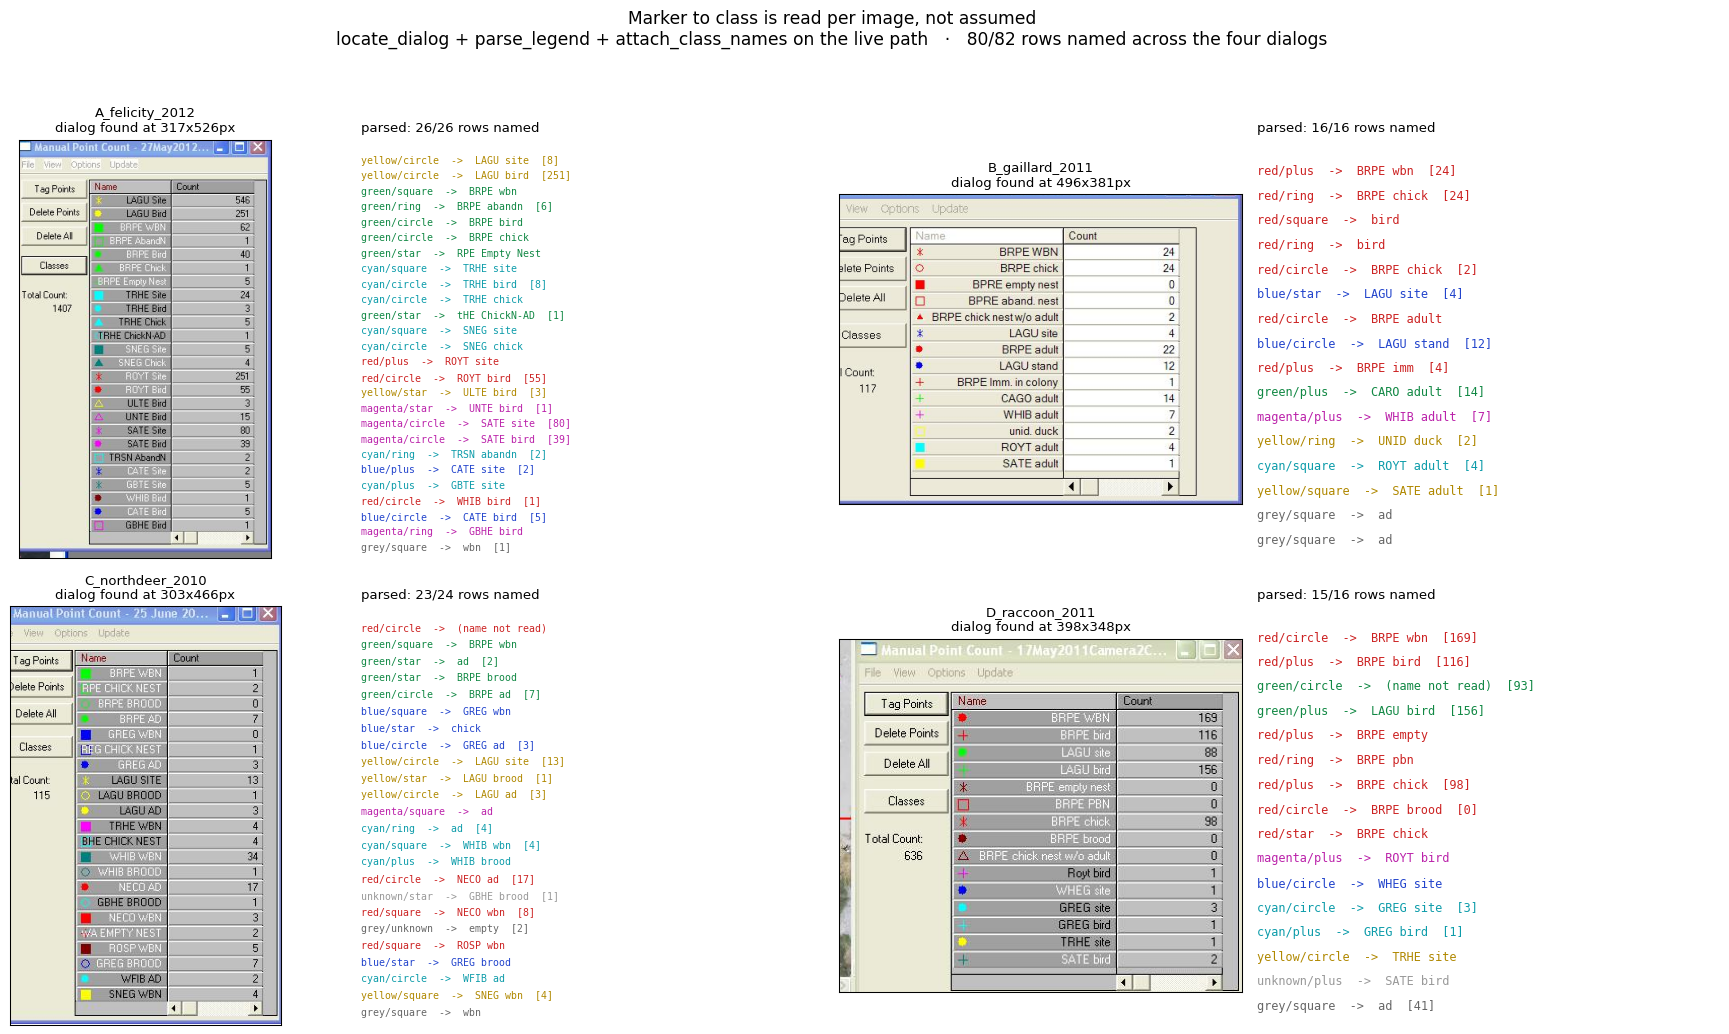
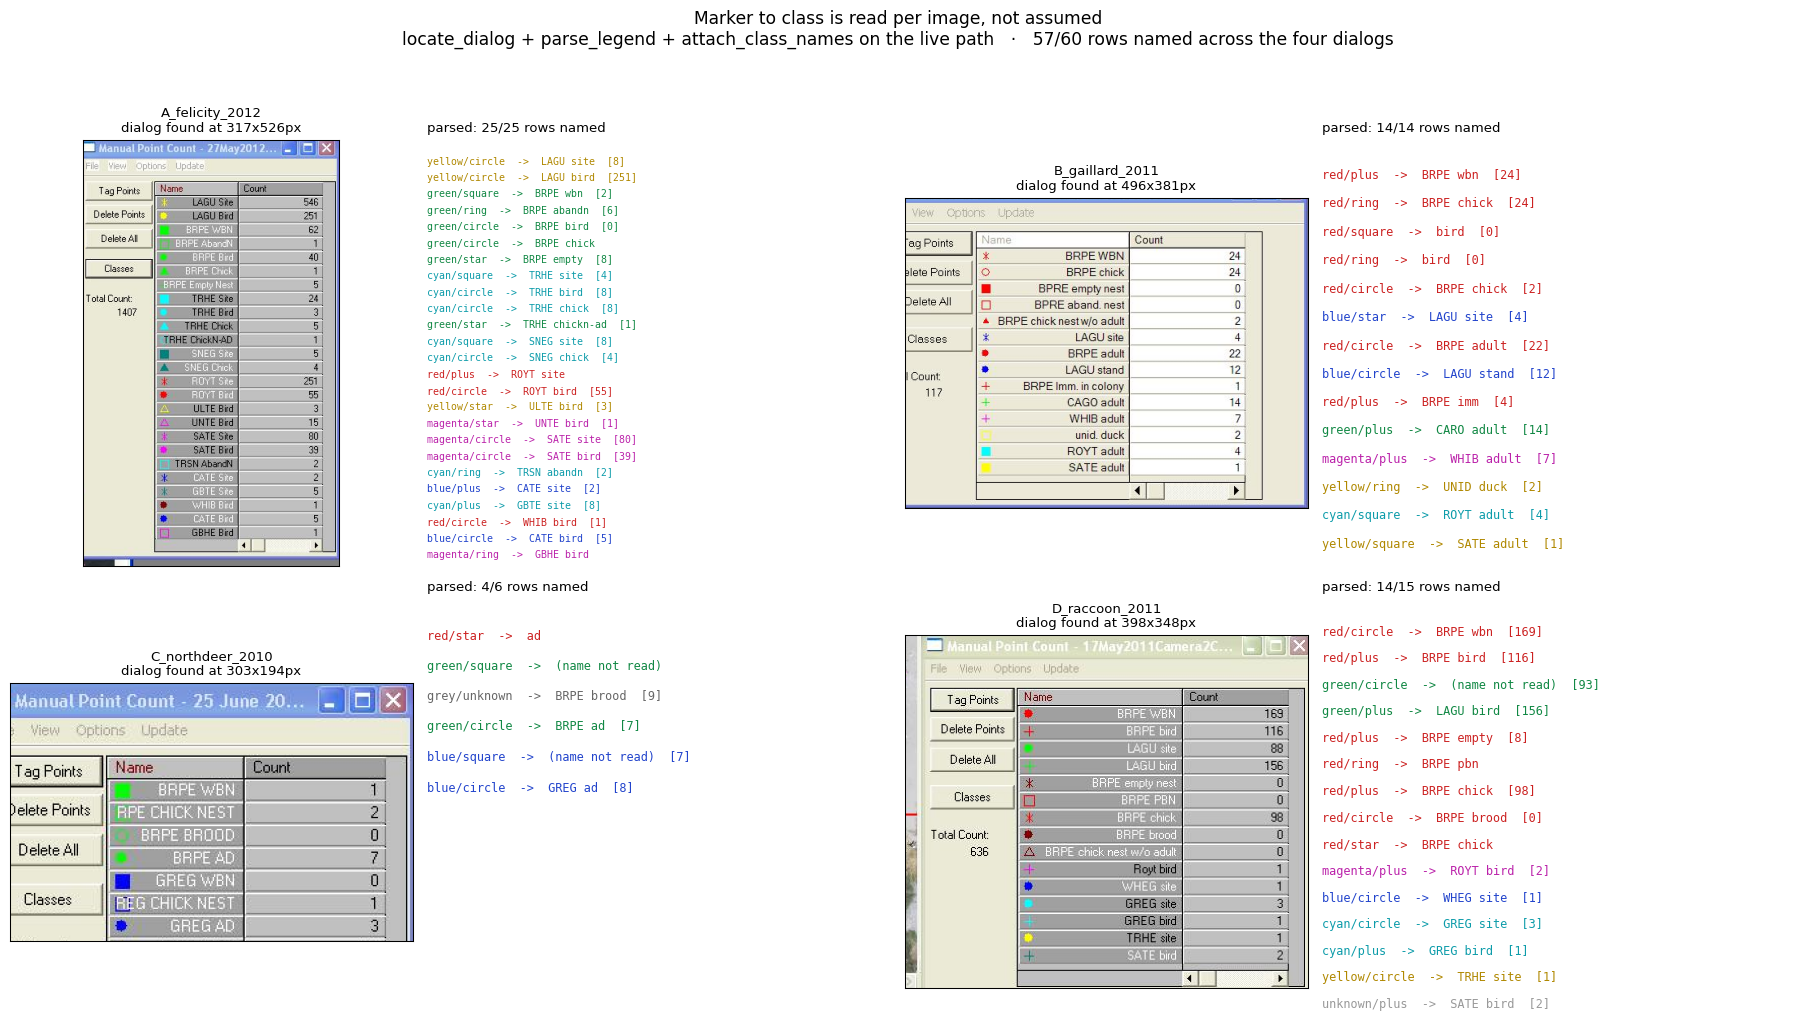
figures: recovery by step, where markers go, labelled accuracy, examples
fig19-fig23 are drawn by scripts/make_recovery_figures.py from the Kaggle runs,
and fig21 reruns eval_localisation.py with every change off and with the
defaults. fig2, the classification figure and the mapping figure are redrawn by
their own generators on the current pipeline.

diff --git a/scripts/make_recovery_figures.py b/scripts/make_recovery_figures.py
@@ -1,0 +1,286 @@
+"""
+Figures for the November 2026 recovery experiments (docs/recovery_experiments.md).
+
+Every number is read from, or recomputed by, the live pipeline:
+
+* fig19, fig20 read the Kaggle runs pulled by `scripts/kaggle_batch.py pull` into
+  results/kaggle/<tag>/<split>/frames.csv, through `scripts/recovery_report.py`.
+* fig21 runs `scripts/eval_localisation.py` twice on the hand-labelled frames, once
+  with every change switched off and once with the defaults.
+* fig22 runs detection, dialog location and legend reading on three frames with each
+  change switched off and on.
+
+Usage:
+    python scripts/make_recovery_figures.py              # all four
+    python scripts/make_recovery_figures.py --skip-eval  # fig21 from the last run's cache
+"""
+from __future__ import annotations
+
+import argparse
+import json
+import os
+import re
+import subprocess
+import sys
+
+import cv2
+import matplotlib
+matplotlib.use("Agg")
+import matplotlib.pyplot as plt
+import numpy as np
+
+ROOT = os.path.dirname(os.path.dirname(os.path.abspath(__file__)))
+sys.path.insert(0, ROOT)
+sys.path.insert(0, os.path.join(ROOT, "scripts"))
+OUT = os.path.join(ROOT, "results", "figures")
+CACHE = os.path.join(ROOT, "results", "kaggle", "fig21_eval.json")
+
+BEFORE, AFTER = "#eb6834", "#2a78d6"          # validated pair (light surface)
+SEG = ["#2a78d6", "#eb6834", "#1baf7a", "#eda100"]
+INK, MUTED, SURFACE = "#0b0b0b", "#52514e", "#fcfcfb"
+OLD_ENV = dict(TIERS="0", OVER_ASSIGN="0", WRONG_PAIR_GUARD="0", LINE_FILTER="0",
+               MODAL="dt", DIALOG_SHARE="0", COUNT_GEOM="0", COUNT_OCR="orig")
+
+plt.rcParams.update({"font.size": 10, "axes.edgecolor": MUTED, "axes.labelcolor": INK,
+                     "xtick.color": MUTED, "ytick.color": MUTED, "figure.facecolor": SURFACE,
+                     "axes.facecolor": SURFACE, "axes.spines.top": False,
+                     "axes.spines.right": False})
+
+
+def recovery(tag: str, split: str) -> float:
+    from recovery_report import headline, load
+    return headline(load(tag, split))["recovery"]
+
+
+def fig19() -> None:
+    steps = [("B0", "b0", "baseline"), ("E2", "e2", "tiers"), ("E3", "e3", "line filter"),
+             ("E4", "e4b", "dialog box"), ("E5", "e5b", "marker size"),
+             ("E6", "e6", "count column"), ("Final", "final", "+ tier D fix")]
+    vals = [recovery(t, "dev") for _, t, _ in steps]
+    test = [recovery("b0", "test"), recovery("final", "test")]
+
+    fig, (a, b) = plt.subplots(1, 2, figsize=(11, 3.8), gridspec_kw={"width_ratios": [3.2, 1]})
+    x = np.arange(len(steps))
+    a.bar(x, vals, width=0.62, color=AFTER)
+    for i, v in enumerate(vals):
+        a.text(i, v + 0.01, f"{v:.1%}", ha="center", va="bottom", color=INK, fontsize=9)
+    a.set_xticks(x, [f"{s}\n{d}" for s, _, d in steps], fontsize=8.5)
+    a.set_ylim(0, 0.7); a.set_ylabel("dots recovered / survey dots")
+    a.set_title("Dev set, one change at a time (3,705 frames)", loc="left", fontsize=10)
+    b.bar([0, 1], test, width=0.6, color=[BEFORE, AFTER])
+    for i, v in enumerate(test):
+        b.text(i, v + 0.01, f"{v:.1%}", ha="center", va="bottom", color=INK, fontsize=9)
+    b.set_xticks([0, 1], ["before", "after"]); b.set_ylim(0, 0.7)
+    b.set_title("Sealed test set (877 frames)", loc="left", fontsize=10)
+    for ax in (a, b):
+        ax.grid(axis="y", color="#e4e3df", linewidth=0.6); ax.set_axisbelow(True)
+    fig.tight_layout()
+    fig.savefig(os.path.join(OUT, "fig19_recovery_by_step.png"), dpi=150)
+    print("fig19", [f"{v:.3f}" for v in vals], "test", [f"{v:.3f}" for v in test])
+
+
+def fig20() -> None:
+    from recovery_report import load
+    groups = [("recovered", None),
+              ("lost inside exported frames", None),
+              ("frame rejected by count ratio", ("select:",)),
+              ("no dialog / legend, alignment, wrong pair",
+               ("no dialog", "legend did not parse", "alignment failed", "wrong pair",
+                "dialog wrong"))]
+    rows = {}
+    for label, tag in (("baseline", "b0"), ("final", "final")):
+        f = load(tag, "dev"); f = f[f.stage != "screenshot missing"]; tot = f.survey.sum()
+        e = f[f.stage == "exported"]
+        sel = f[f.stage.str.startswith("select:")].survey.sum()
+        other = f[~f.stage.isin(["exported"]) & ~f.stage.str.startswith("select:")].survey.sum()
+        rows[label] = [e.kept.sum() / tot, (e.survey.sum() - e.kept.sum()) / tot,
+                       sel / tot, other / tot]
+    fig, ax = plt.subplots(figsize=(10, 2.6))
+    for r, (label, parts) in enumerate(rows.items()):
+        left = 0.0
+        for k, p in enumerate(parts):
+            ax.barh(r, p - 0.004, left=left, height=0.55, color=SEG[k])
+            if p > 0.04:
+                ax.text(left + p / 2, r, f"{p:.0%}", ha="center", va="center",
+                        color="white" if k == 0 else INK, fontsize=9)
+            left += p
+    ax.set_yticks([0, 1], list(rows)); ax.invert_yaxis(); ax.set_xlim(0, 1)
+    ax.set_xlabel("share of survey dots (dev, 3,705 frames)")
+    ax.legend(handles=[plt.Rectangle((0, 0), 1, 1, color=c) for c in SEG],
+              labels=[g for g, _ in groups], ncol=4, loc="upper center",
+              bbox_to_anchor=(0.5, 1.32), frameon=False, fontsize=8.5)
+    fig.tight_layout()
+    fig.savefig(os.path.join(OUT, "fig20_where_dots_go.png"), dpi=150)
+    print("fig20", {k: [round(v, 3) for v in p] for k, p in rows.items()})
+
+
+def run_eval(env: dict) -> dict:
+    out = subprocess.run([sys.executable, "scripts/eval_localisation.py"], cwd=ROOT,
+                         env={**os.environ, **env}, capture_output=True, text=True).stdout
+    p, r, f1 = map(float, re.search(r"precision ([\d.]+)\s+recall ([\d.]+)\s+F1 ([\d.]+)",
+                                    out).groups())
+    acc = float(re.search(r"per-dot accuracy, legend ROW\s+([\d.]+)", out).group(1))
+    return dict(precision=p, recall=r, F1=f1, classification=acc)
+
+
+def fig21(skip_eval: bool) -> None:
+    if skip_eval and os.path.exists(CACHE):
+        res = json.load(open(CACHE))
+    else:
+        res = {"before": run_eval(OLD_ENV), "after": run_eval({})}
+        json.dump(res, open(CACHE, "w"), indent=1)
+    keys = ["precision", "recall", "F1", "classification"]
+    x = np.arange(len(keys)); w = 0.36
+    fig, ax = plt.subplots(figsize=(7.5, 3.4))
+    for off, (lab, col) in zip((-w / 2, w / 2), (("before", BEFORE), ("after", AFTER))):
+        vals = [res[lab][k] for k in keys]
+        ax.bar(x + off, vals, width=w - 0.02, color=col, label=lab)
+        for i, v in enumerate(vals):
+            ax.text(i + off, v + 0.012, f"{v:.2f}", ha="center", va="bottom", fontsize=9)
+    ax.set_xticks(x, keys); ax.set_ylim(0, 1)
+    ax.set_title("12 hand-labelled frames, 1,648 dots", loc="left", fontsize=10)
+    ax.legend(frameon=False, loc="upper left")
+    ax.grid(axis="y", color="#e4e3df", linewidth=0.6); ax.set_axisbelow(True)
+    fig.tight_layout()
+    fig.savefig(os.path.join(OUT, "fig21_labelled_accuracy.png"), dpi=150)
+    print("fig21", res)
+
+
+def _pair(name: str):
+    """Screenshot, original and cached alignment for a dev or labelled frame."""
+    import pandas as pd
+    from scripts.export_dataset import cached_align
+    from scripts.probe_groundtruth import fetch
+    s = pd.read_csv(os.path.join(ROOT, "data", "cache", "set_dev.csv"))
+    row = s[s.screenshot_key.str.contains(name)].iloc[0]
+    cache = json.load(open(os.path.join(ROOT, "data", "cache", "align_dev.json")))
+    shot, orig = fetch(row.screenshot_key), fetch(row.highres_key)
+    return shot, orig, cached_align(row.screenshot_key, shot, orig, cache)
+
+
+def _panel(img, title, w=560):
+    img = cv2.resize(img, (w, int(img.shape[0] * w / img.shape[1])))
+    bar = np.full((34, w, 3), 255, np.uint8)
+    cv2.putText(bar, title, (8, 23), cv2.FONT_HERSHEY_SIMPLEX, 0.6, (20, 20, 20), 1, cv2.LINE_AA)
+    return np.vstack([bar, img])
+
+
+def fig22() -> None:
+    import src.legend as L
+    import src.subtract as S
+    from src.classify import detect_dots_subtract
+    rows = []
+
+    # Line filter: a frame with no markers at all, only transect lines.
+    shot, orig, res = _pair("08May10Camera2-Card1-5124")
+    box = L.locate_dialog(shot)
+    pans = []
+    for flag, lab in ((False, "line filter off"), (True, "line filter on")):
+        S._LINE_FILTER = flag
+        dots = detect_dots_subtract(shot, orig, res, exclude=box)
+        vis = cv2.cvtColor(shot, cv2.COLOR_RGB2BGR).copy()
+        for d in dots:
+            cv2.circle(vis, (int(d.cx), int(d.cy)), 7, (0, 0, 255), 2)
+        pans.append(_panel(vis, f"{lab}: {len(dots)} dots (frame has no markers)"))
+    rows.append(np.hstack(pans))
+
+    # Dialog box: the old ranking picks a column of birds on the beach.
+    shot, _o, _r = _pair("18May21Camera2-Card1-4762")
+    pans = []
+    for flag, lab in ((False, "old dialog box"), (True, "new dialog box")):
+        L._DIALOG_SHARE = flag
+        b = L.locate_dialog(shot)
+        vis = cv2.cvtColor(shot, cv2.COLOR_RGB2BGR).copy()
+        if b:
+            x, y, w, h = b; cv2.rectangle(vis, (x, y), (x + w, y + h), (0, 0, 255), 4)
+        pans.append(_panel(vis, lab))
+    rows.append(np.hstack(pans))
+
+    # Count column: the dialog plainly reads 93 / 70 / 11 / 23 / 10.
+    from scripts.export_dataset import read
+    lab = json.load(open(os.path.join(ROOT, "data", "labels", "27May12Camera1-Card2-0449.json")))
+    shot = read(lab["screenshot_key"])
+    pans = []
+    for geom, ocr, title in ((False, "orig", "old Count reading"),
+                             (True, "comb", "new Count reading")):
+        L._COUNT_GEOM, L._COUNT_OCR = geom, ocr
+        ents, b = L.parse_screenshot(shot)
+        x, y, w, h = b; dlg = shot[y:y + h, x:x + w].copy(); L.attach_class_names(dlg, ents)
+        vis = cv2.cvtColor(dlg, cv2.COLOR_RGB2BGR)
+        vis = cv2.resize(vis, None, fx=2, fy=2, interpolation=cv2.INTER_NEAREST)
+        vis = cv2.copyMakeBorder(vis, 0, 0, 0, 170, cv2.BORDER_CONSTANT, value=(255, 255, 255))
+        for e in ents:
+            cv2.putText(vis, f"read {e.count}", (vis.shape[1] - 160, int(e.cy * 2) + 6),
+                        cv2.FONT_HERSHEY_SIMPLEX, 0.6, (0, 0, 200), 2, cv2.LINE_AA)
+        pans.append(_panel(vis, title))
+        print("fig22 0449", title, [e.count for e in ents])
+    h = max(p.shape[0] for p in pans)
+    rows.append(np.hstack([cv2.copyMakeBorder(p, 0, h - p.shape[0], 0, 0, cv2.BORDER_CONSTANT,
+                                              value=(255, 255, 255)) for p in pans]))
+
+    S._LINE_FILTER = L._DIALOG_SHARE = L._COUNT_GEOM = True
+    L._COUNT_OCR = "comb"
+    w = max(r.shape[1] for r in rows)
+    rows = [cv2.copyMakeBorder(r, 6, 6, 0, w - r.shape[1], cv2.BORDER_CONSTANT,
+                               value=(255, 255, 255)) for r in rows]
+    cv2.imwrite(os.path.join(OUT, "fig22_examples.jpg"), np.vstack(rows),
+                [cv2.IMWRITE_JPEG_QUALITY, 88])
+    print("fig22 written")
+
+
+FIG23 = [("17May21Camera1-Card1-4097", "frame the baseline dropped"),
+         ("21June15Camera1-Card2-00654", "baseline exported too many boxes"),
+         ("18June13Camera2-Card2-0081", "dialog box fixed")]
+
+
+def fig23() -> None:
+    """Exported boxes on the original photograph, baseline run against final run."""
+    import pandas as pd
+    from scripts.probe_groundtruth import fetch
+    cols = ["frame", "image_path", "xmin", "ymin", "xmax", "ymax", "exported"]
+    runs = {t: pd.read_csv(os.path.join(ROOT, "results", "kaggle", t, "dev",
+                                        "annotations_full.csv"), usecols=cols)
+            for t in ("b0", "final")}
+    s = pd.read_csv(os.path.join(ROOT, "data", "cache", "set_dev.csv"))
+    rows = []
+    for name, why in FIG23:
+        key = s[s.screenshot_key.str.contains(name)].highres_key.iloc[0]
+        img = cv2.cvtColor(fetch(key), cv2.COLOR_RGB2BGR)
+        survey = int(s[s.screenshot_key.str.contains(name)].dots.iloc[0])
+        boxes = {t: r[(r.frame == name) & r.exported] for t, r in runs.items()}
+        allb = pd.concat(boxes.values())
+        if allb.empty:
+            continue
+        # Crop to where the boxes are, so they stay visible at report size.
+        x0, y0 = int(max(0, allb.xmin.min() - 150)), int(max(0, allb.ymin.min() - 150))
+        x1 = int(min(img.shape[1], allb.xmax.max() + 150))
+        y1 = int(min(img.shape[0], allb.ymax.max() + 150))
+        pans = []
+        for t, col, lab in (("b0", (52, 104, 235), "baseline"), ("final", (214, 120, 42), "final")):
+            vis = img.copy()
+            for b in boxes[t].itertuples():
+                cv2.rectangle(vis, (int(b.xmin), int(b.ymin)), (int(b.xmax), int(b.ymax)), col, 3)
+            pans.append(_panel(vis[y0:y1, x0:x1],
+                               f"{lab}: {len(boxes[t])} boxes, survey count {survey}", w=700))
+        h = max(p.shape[0] for p in pans)
+        pans = [cv2.copyMakeBorder(p, 0, h - p.shape[0], 0, 0, cv2.BORDER_CONSTANT,
+                                   value=(255, 255, 255)) for p in pans]
+        head = np.full((30, 1400, 3), 255, np.uint8)
+        cv2.putText(head, f"{name}: {why}", (8, 21), cv2.FONT_HERSHEY_SIMPLEX, 0.6,
+                    (20, 20, 20), 1, cv2.LINE_AA)
+        rows.append(np.vstack([head, np.hstack(pans)]))
+        print("fig23", name, {t: len(b) for t, b in boxes.items()}, "survey", survey)
+    cv2.imwrite(os.path.join(OUT, "fig23_boxes_before_after.jpg"), np.vstack(rows),
+                [cv2.IMWRITE_JPEG_QUALITY, 85])
+
+
+def main() -> None:
+    ap = argparse.ArgumentParser()
+    ap.add_argument("--skip-eval", action="store_true")
+    a = ap.parse_args()
+    os.makedirs(OUT, exist_ok=True)
+    fig19(); fig20(); fig21(a.skip_eval); fig22(); fig23()
+
+
+if __name__ == "__main__":
+    main()
